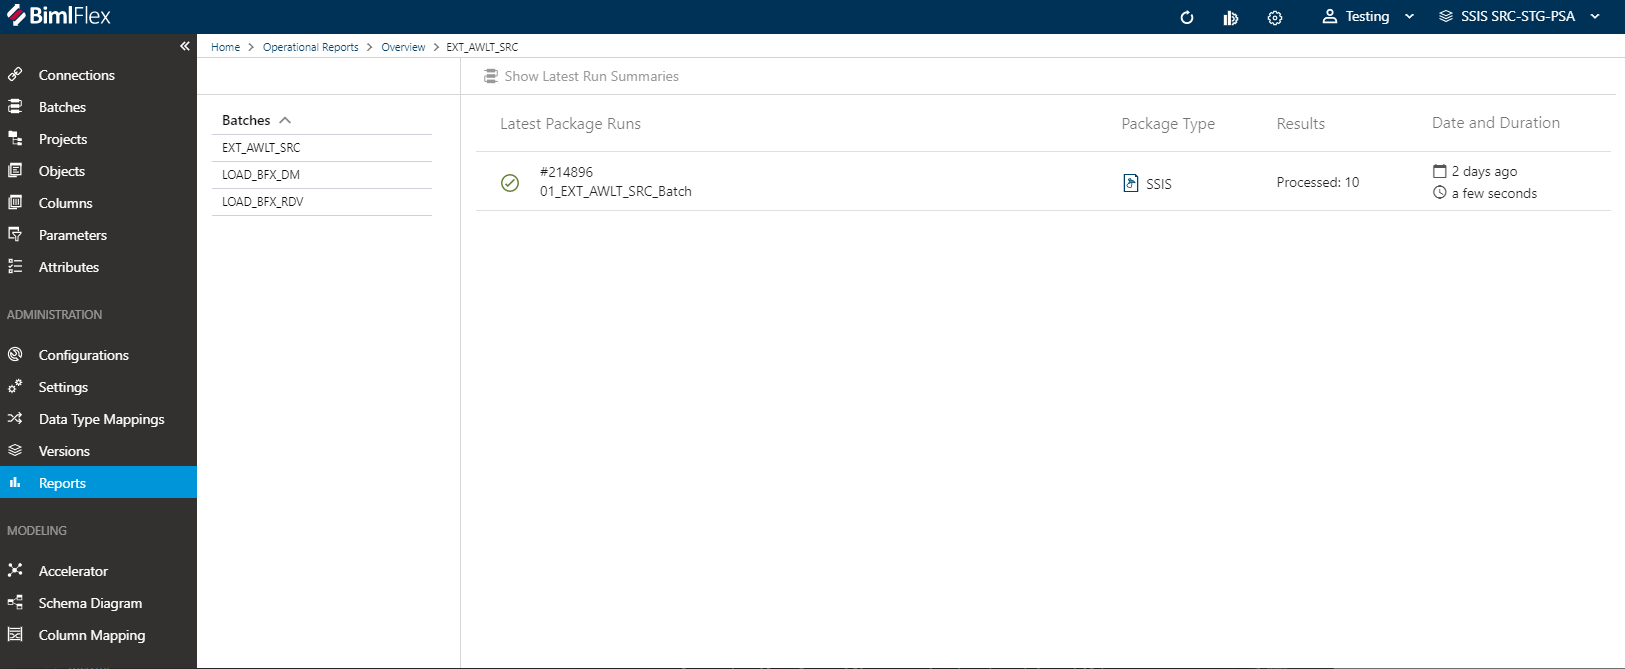
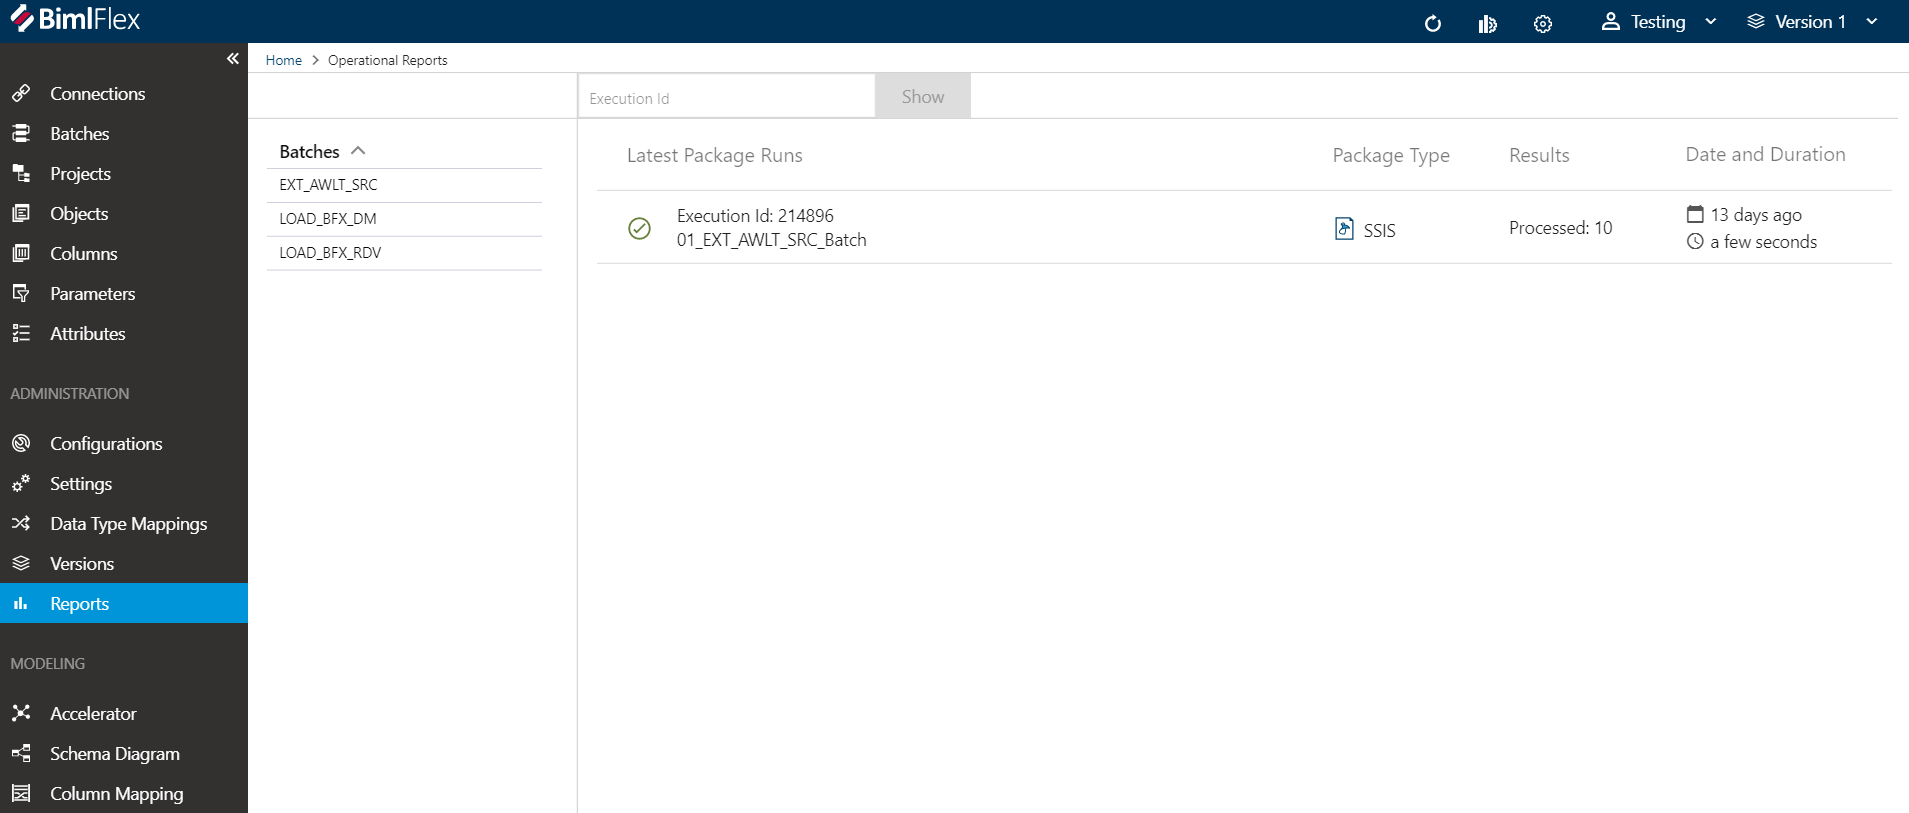
Update dashboard, toolbar styling. Update Operational Reporting doc.

diff --git a/docfx/templates/varigence-template-html/styles/style_support.css b/docfx/templates/varigence-template-html/styles/style_support.css
@@ -5836,7 +5836,7 @@ input[type="radio"]
     padding: 30px;
  }
 
-.bordered-image {
+ .bordered-image, .border-image {
   border: 1px solid #CCC;
 }
  

diff --git a/bimlflex/metadata-editors/dashboard.md b/bimlflex/metadata-editors/dashboard.md
@@ -20,7 +20,11 @@ The default view of the Sunburst shows us concentric circles with:
 1. `Object Types` the third layer
 1. `Objects` outer layer
 
-![Sunburst](images/bimlflex-app-dashboard-sunburst.png "Sunburst")
+<img 
+    src="images/bimlflex-app-dashboard-sunburst.png" 
+    class="bordered-image" 
+    title="Sunburst"
+/>
 
 ### Sunburst Zooming and Hovering
 
@@ -30,11 +34,19 @@ When a user hovers over a slice of a layer the information on the right will dyn
 
 In the image below the sunburst is zoomed into the Raw Data Vault `Integration Stage` and the mouse is hovering over the Hub `Object Type`.
 
-![Sunburst Hover Hub](images/bimlflex-app-dashboard-sunburst-hover-hub.png "Sunburst Zoom Link Hover Table")
+<img 
+    src="images/bimlflex-app-dashboard-sunburst-hover-hub.png" 
+    class="bordered-image" 
+    title="Sunburst Zoom Link Hover Table"
+/>
 
 In the image below the sunburst is zoomed into the Link `Object Type` and the mouse is hovering over the LNK_Product_ProductCategory `Table`.
 
-![Sunburst Zoom Link Hover Table](images/bimlflex-app-dashboard-sunburst-zoom-link-hover-table.png "Sunburst Hover Hub")
+<img 
+    src="images/bimlflex-app-dashboard-sunburst-zoom-link-hover-table.png" 
+    class="bordered-image" 
+    title="Sunburst Hover Hub"
+/>
 
 By clicking in the center of the Sunburst users can zoom back out to the full Sunburst view.
 
@@ -98,15 +110,27 @@ The Recent Projects pane displays the most recently updated Projects to allow fo
 
 Clone the current version to a new version.
 
-![Clone Version](images/bimlflex-app-dashboard-clone-version.png "Clone Version")
+<img 
+    src="images/bimlflex-app-dashboard-clone-version.png" 
+    class="bordered-image" 
+    title="Clone Version"
+/>
 
 ### Snapshots: 
 
-![Snapshot Sub Menu](images/bimlflex-app-dashboard-snapshots.png "Snapshot Sub Menu")
+<img 
+    src="images/bimlflex-app-dashboard-snapshots.png" 
+    class="bordered-image" 
+    title="Capture Snapshot" 
+/>
 
 Hover over `Capture Snapshot` and click the elipses for more options.
 
-![Snapshot Sub Menu](images/bimlflex-app-dashboard-snapshots-submenu.png "Snapshot Sub Menu")
+<img 
+    src="images/bimlflex-app-dashboard-snapshots-submenu.png" 
+    class="bordered-image" 
+    title="Snapshot Sub Menu" 
+/>
 
 * Capture - Capture a snapshot of the current version's metadata.
 * Rollback - Rollback this version from a previous metadata snapshot.
@@ -115,13 +139,21 @@ Hover over `Capture Snapshot` and click the elipses for more options.
 
 ### Archive Deleted Entities
 
-![Archive Deleted Entities](images/bimlflex-app-dashboard-archive-entities.png "Archive Deleted Entities")
+<img 
+    src="images/bimlflex-app-dashboard-archive-entities.png" 
+    class="bordered-image" 
+    title="Archive Deleted Entities" 
+/>
 
 Archive deleted entities of the selected types. Be aware that this action cannot be undone.
 
 ### Apply Data Type Mappings
 
-![Apply Data Type Mappings](images/bimlflex-app-dashboard-apply-data-type-mappings.png "Apply Data Type Mappings")
+<img 
+    src="images/bimlflex-app-dashboard-apply-data-type-mappings.png" 
+    class="bordered-image" 
+    title="Apply Data Type Mappings" 
+/>
 
 The Data Type Mappings are added to all columns for a specific `Record Source`
 
@@ -137,7 +169,11 @@ Getting Started contains info and complete sets of Metadata examples to quickly 
 
 ### Load Sample Metadata
 
-![Load Sample Metadata](images/bimlflex-app-dashboard-sample-metadata.png "Load Sample Metadata")
+<img 
+    src="images/bimlflex-app-dashboard-sample-metadata.png" 
+    class="bordered-image" 
+    title="Load Sample Metadata" 
+/>
 
 Contains complete sets of Metadata to serve as an example for users to refer to. These examples are also useful when following allong with the Getting Started Videos.
 
@@ -145,7 +181,11 @@ Contains complete sets of Metadata to serve as an example for users to refer to.
 
 ### Load Defaults
 
-![Load Defaults](images/bimlflex-app-dashboard-load-defaults.png "Load Sample Defaults")
+<img 
+    src="images/bimlflex-app-dashboard-load-defaults.png" 
+    class="bordered-image" 
+    title="Load Defaults" 
+/>
 
 Set the specified defaults on the selected target version. Unlike the Load Sample Metadata this does not override the target version metadata.
 

diff --git a/bimlflex/metadata-editors/operational-reports.md b/bimlflex/metadata-editors/operational-reports.md
@@ -20,8 +20,8 @@ If there is reporting data for the Batches and Projects in the currently selecte
 
 The reporting screens are broken up into three views of the data:
 
-* The top-level summary view will show the latest execution details for each Batch.
-* The second level shows the 5 most recent execution runs for a specific batch
+* The top-level summary view will show the latest execution details for each batch.
+* The second level shows the 5 most recent execution runs for a specific batch.
 * The third level shows the package details and errors (if any) for a specific execution batch and its child packages
 
 Level 1 - Latest execution details for each batch
@@ -35,3 +35,7 @@ Level 2 - 5 most recent execution runs for a specific batch
 Level 3 - details of specific execution batch and its child packages
 
 ![Operational Reporting Level 3 -center](images/bimlflex-app-operational-reporting-level3.png "Operational Reporting Level 3")
+
+### Lookup Execution Id
+
+There is a Execution Id lookup field in the First Level screen. Use it if you know the execution id (may be called Audit Id in SSIS) and you would like to go straight to the package execution details. If the Execution Id points to a batch all the batch and child information will be available. If it points to a child package, then only that package information will be available on the details screen.

diff --git a/bimlflex/metadata-editors/_incl-settings-pane.md b/bimlflex/metadata-editors/_incl-settings-pane.md
@@ -6,7 +6,11 @@ title: Settings Database Connection
 
 Configure the App to connect to the BimlFlex database through the configuration pane opened by the settings cog on the right-hand side of the main toolbar.
 
-![Settings](../metadata-editors/images/bimlflex-app-settings-database-connection.png "Settings")
+<img 
+    src="images/bimlflex-app-settings-database-connection.png" 
+    class="bordered-image" 
+    title="Settings" 
+/>
 
 ### Database Connection Settings
 
@@ -16,7 +20,11 @@ Specify the database server, database and login information for the metadata dat
 
 Click the New Customer button and enter a new Customer to create a new customer. An empty Version will automatically be created and selected.
 
-![Settings - Create new Customer](../metadata-editors/images/bimlflex-app-settings-new-customer.png "Settings - Create new Customer")
+<img 
+    src="images/bimlflex-app-settings-new-customer.png" 
+    class="bordered-image" 
+    title="Settings - Create new Customer" 
+/>
 
 ### Additional Options
 
